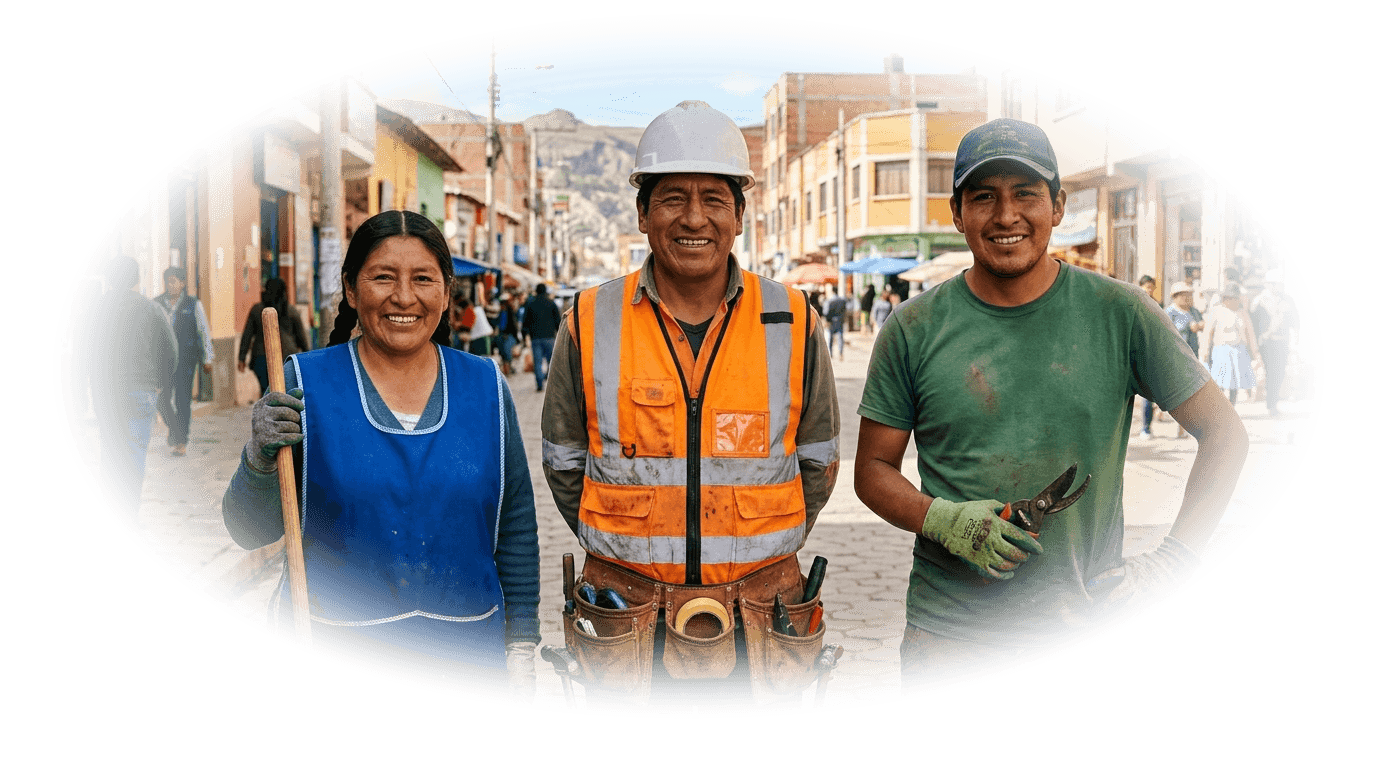
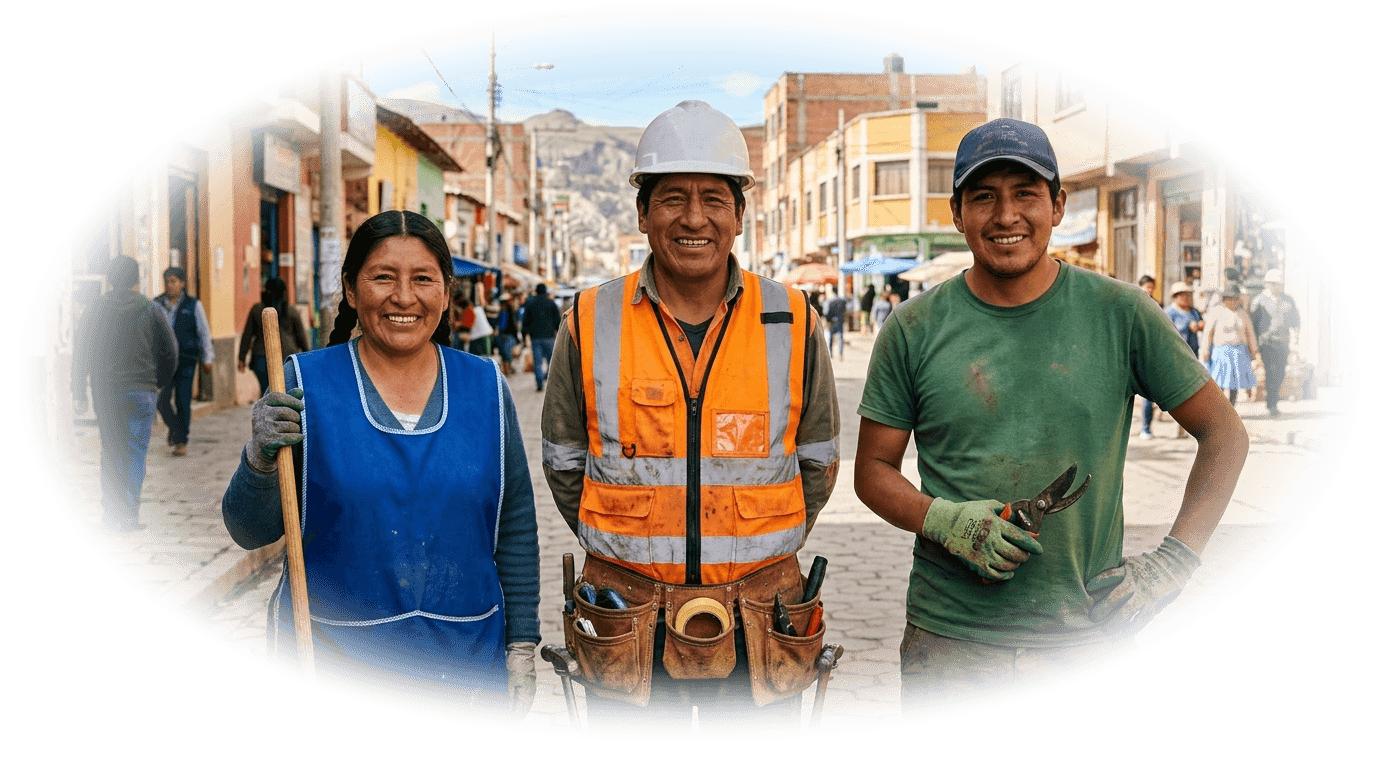
feat(worker-ui): dramatically enlarge worker hero image and apply smooth feathered dissolve to features worker section

Changed region(s): [[0.0312, 0.0625, 0.9688, 0.9375]]

diff --git a/src/components/Hero.tsx b/src/components/Hero.tsx
@@ -217,10 +217,10 @@ export default function Hero({ activeRole }: HeroProps) {
           /* MODO TRABAJADOR: "Más oportunidades para gente que sí trabaja"            */
           /* ========================================================================= */
           <div>
-            <div className="grid grid-cols-1 lg:grid-cols-12 gap-8 lg:gap-8 items-center">
+            <div className="grid grid-cols-1 lg:grid-cols-12 gap-8 lg:gap-10 items-center">
               
               {/* Left Column: Worker Headline, Subtitle, Trade Cards, CTA */}
-              <div className="lg:col-span-6 xl:col-span-6 flex flex-col items-start text-left">
+              <div className="lg:col-span-5 xl:col-span-5 flex flex-col items-start text-left">
                 
                 {/* Badge: Trabajo para todos */}
                 <motion.div
@@ -290,9 +290,9 @@ export default function Hero({ activeRole }: HeroProps) {
 
               </div>
 
-              {/* Right Column: Diverse Real Workers Image - Sin bordes cuadrados, desvanecida y más grande */}
-              <div className="lg:col-span-6 xl:col-span-6 relative flex justify-center lg:justify-end items-center mt-6 lg:mt-0">
-                <div className="absolute top-1/2 left-1/2 -translate-x-1/2 -translate-y-1/2 w-[120%] h-[120%] bg-purple-200/40 blur-3xl rounded-full pointer-events-none" />
+              {/* Right Column: Diverse Real Workers Image - Sin bordes cuadrados, desvanecida y MUCHO más grande */}
+              <div className="lg:col-span-7 xl:col-span-7 relative flex justify-center lg:justify-end items-center mt-8 lg:mt-0">
+                <div className="absolute top-1/2 left-1/2 -translate-x-1/2 -translate-y-1/2 w-[130%] h-[130%] bg-purple-200/40 blur-3xl rounded-full pointer-events-none" />
 
                 <motion.div
                   initial={{ opacity: 0, scale: 0.95, y: 15 }}
@@ -304,11 +304,11 @@ export default function Hero({ activeRole }: HeroProps) {
                     <img
                       src="/images/workers_dissolve.png"
                       alt="Trabajadores de Chamba - Oportunidades y Oficios"
-                      className="w-full h-auto max-w-[760px] sm:max-w-[880px] lg:max-w-[1000px] xl:max-w-[1120px] 2xl:max-w-[1240px] lg:scale-105 transform origin-center object-contain drop-shadow-[0_20px_45px_rgba(139,92,246,0.12)] transition-transform duration-300"
+                      className="w-full h-auto max-w-none scale-105 sm:scale-115 lg:scale-125 xl:scale-135 2xl:scale-140 transform origin-center lg:origin-right object-contain drop-shadow-[0_25px_60px_rgba(139,92,246,0.16)] transition-transform duration-300"
                     />
 
                     {/* Modern Floating Badges */}
-                    <div className="mt-3 sm:-mt-5 flex flex-wrap items-center justify-center gap-2.5 sm:gap-3 z-10 px-2">
+                    <div className="mt-4 sm:mt-2 flex flex-wrap items-center justify-center gap-2.5 sm:gap-3 z-10 px-2">
                       <span className="bg-white/95 backdrop-blur-md border border-emerald-100 text-slate-800 shadow-lg shadow-purple-900/5 px-4 py-1.5 rounded-full text-xs font-bold flex items-center gap-1.5">
                         <CheckCircle2 className="w-4 h-4 text-emerald-500" />
                         100% Identidad Verificada

diff --git a/src/components/Features.tsx b/src/components/Features.tsx
@@ -257,18 +257,21 @@ export default function Features({ activeRole = "client" }: FeaturesProps) {
 
           {/* Center Column: Workers Photo Showcase */}
           <div className="w-full lg:flex-1 max-w-[580px] xl:max-w-[640px] flex justify-center items-center relative z-10 order-1 lg:order-2">
-            <div className="relative w-full rounded-2xl overflow-hidden drop-shadow-md">
+            <div className="relative w-full flex justify-center items-center select-none">
+              {/* Ambient Glow */}
+              <div className="absolute top-1/2 left-1/2 -translate-x-1/2 -translate-y-1/2 w-[85%] h-[85%] bg-purple-200/40 blur-3xl rounded-full pointer-events-none" />
+
               <img
                 src="/images/chamba_workers_feathered.png"
                 alt="Chamba Profesionales Reales"
-                className={`w-full h-auto object-contain max-h-[440px] mx-auto select-none transition-opacity duration-200 ${
+                className={`w-full h-auto object-contain max-h-[460px] mx-auto select-none transition-opacity duration-300 ${
                   activeRole === "client" ? "opacity-100 relative" : "opacity-0 absolute inset-0 pointer-events-none"
                 }`}
               />
               <img
-                src="/images/feature2.png"
+                src="/images/feature_worker_feathered.png"
                 alt="Chambero Profesional"
-                className={`w-full h-auto object-contain max-h-[440px] mx-auto select-none rounded-2xl transition-opacity duration-200 ${
+                className={`w-full h-auto object-contain max-h-[460px] mx-auto select-none drop-shadow-[0_20px_45px_rgba(139,92,246,0.18)] transition-opacity duration-300 ${
                   activeRole === "worker" ? "opacity-100 relative" : "opacity-0 absolute inset-0 pointer-events-none"
                 }`}
               />
